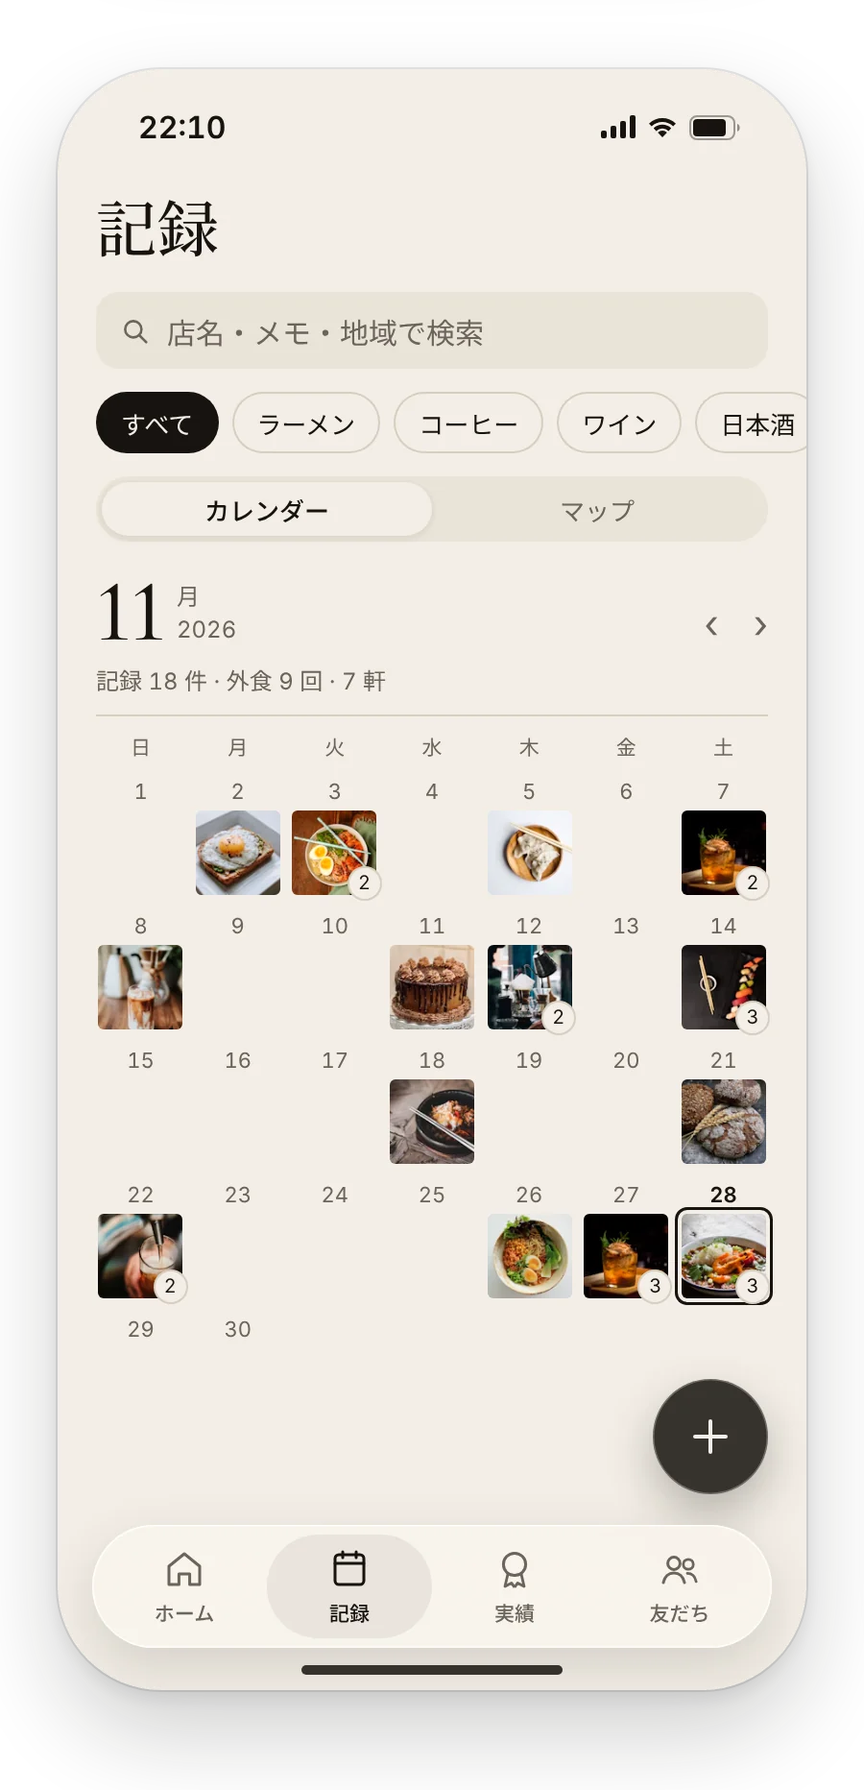
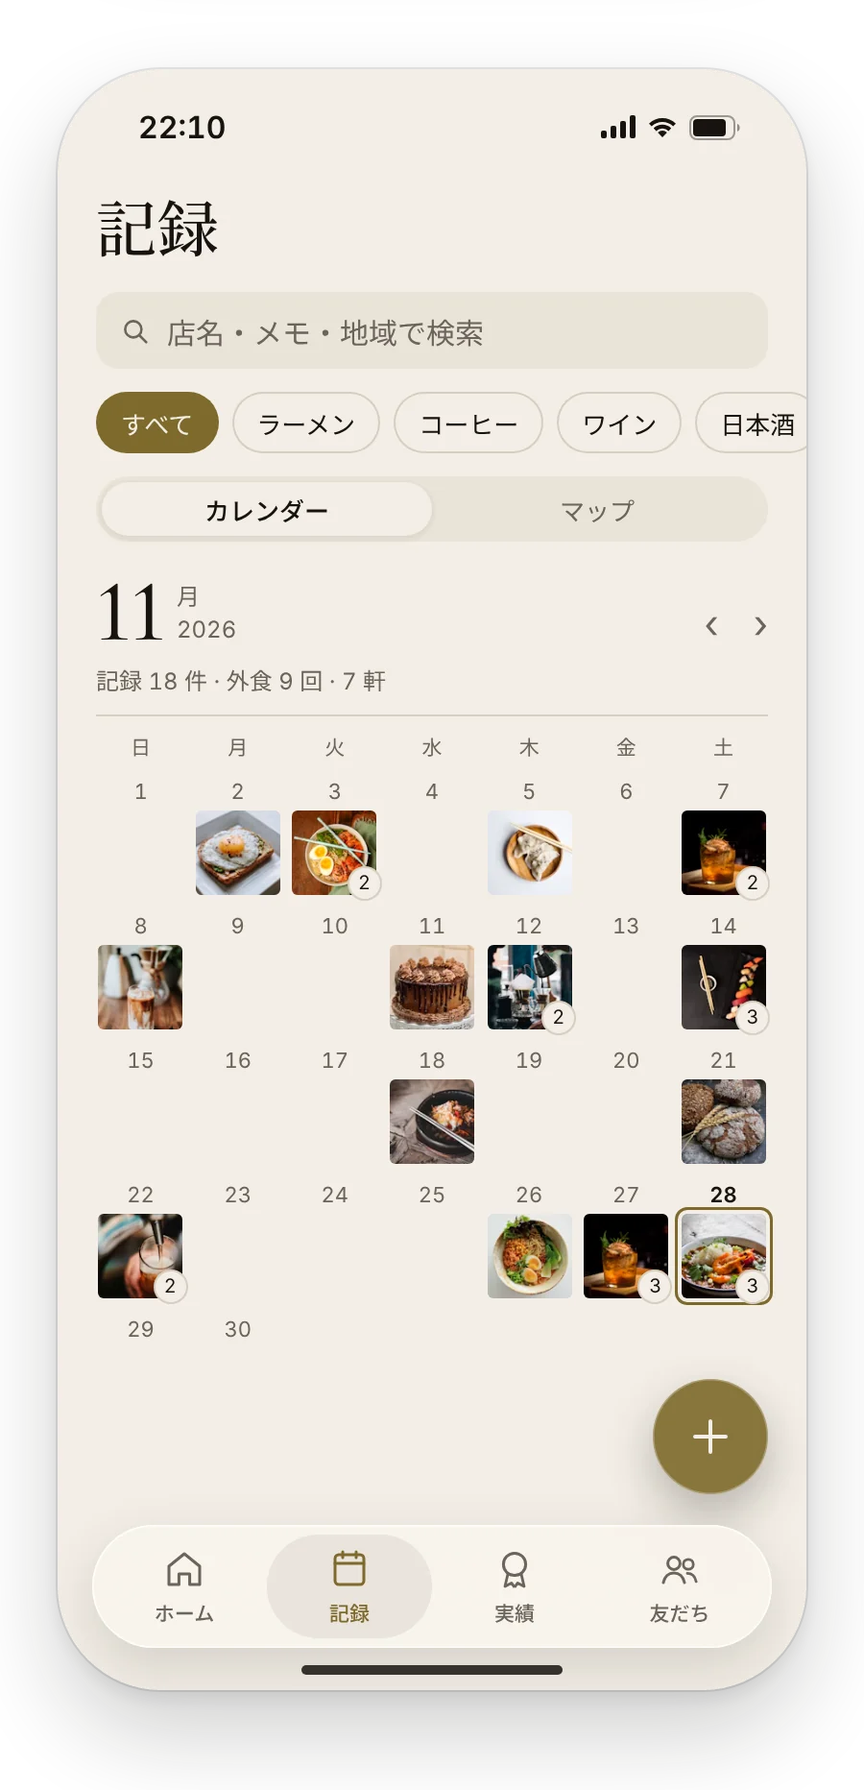
デザインの方向性を「日々の帳面」に決め、金は一休に学んで紙面ごとに濃さを変えて残す
作り手の判断を反映した。世界観は「日々の帳面」、明暗 2 つの紙面を OS の設定で切り替える、
書体は OS のヒラギノ、写真は仮置きのまま進める。金はやめる提案だったが、一休.com のように
白い背景でも金で高級感を出したいという判断を受け、明るい紙面では文字にも使える濃さ (#7E6A2C) に
して、操作と順位に使う。画面イメージとスライドを差し替え、判断待ちを消した。

Claude-Session: https://claude.ai/code/session_01YUQqLJP5HrrJYirxhUtHjp

diff --git a/docs/design/screens/index.html b/docs/design/screens/index.html
@@ -13,9 +13,11 @@
 body { background: #CFC8BC; font-family: -apple-system, "Hiragino Sans", "Noto Sans JP", sans-serif; padding: 24px; display: flex; flex-wrap: wrap; align-items: flex-start; gap: 8px; font-variant-numeric: lining-nums tabular-nums; }
 
 .light { --bg:#F3EEE6; --surface:#EAE4D9; --ink:#16130F; --sub:#6B645B; --rule:#D6CEC0; --shu:#A23F2E;
-  --glass:rgba(250,247,242,.62); --glass-line:rgba(255,255,255,.85); --glass-shadow:rgba(22,19,15,.14); --frame:rgba(22,19,15,.10); --pill:rgba(22,19,15,.07); --toast:rgba(247,243,236,.88); --fab:rgba(22,19,15,.86); }
+  --glass:rgba(250,247,242,.62); --glass-line:rgba(255,255,255,.85); --glass-shadow:rgba(22,19,15,.14); --frame:rgba(22,19,15,.10); --pill:rgba(22,19,15,.07); --toast:rgba(247,243,236,.88);
+  --gold:#7E6A2C; --on-gold:#F3EEE6; --fab:rgba(126,106,44,.92); }
 .dark { --bg:#16130F; --surface:#221E19; --ink:#F2EDE4; --sub:#A39B8F; --rule:#3A342C; --shu:#D6694F;
-  --glass:rgba(52,47,41,.62); --glass-line:rgba(255,255,255,.16); --glass-shadow:rgba(0,0,0,.45); --frame:rgba(255,255,255,.08); --pill:rgba(255,255,255,.10); --toast:rgba(40,36,31,.90); --fab:rgba(226,219,207,.78); }
+  --glass:rgba(52,47,41,.62); --glass-line:rgba(255,255,255,.16); --glass-shadow:rgba(0,0,0,.45); --frame:rgba(255,255,255,.08); --pill:rgba(255,255,255,.10); --toast:rgba(40,36,31,.90);
+  --gold:#B8995F; --on-gold:#16130F; --fab:rgba(184,153,95,.9); }
 
 .shot { padding: 36px 30px 52px; display: inline-block; }
 .phone { width: 390px; height: 844px; border-radius: 54px; overflow: hidden; position: relative;
@@ -33,7 +35,7 @@ body { background: #CFC8BC; font-family: -apple-system, "Hiragino Sans", "Noto S
 .status .icons { display: flex; gap: 6px; align-items: center; }
 .content { position: absolute; top: 54px; left: 0; right: 0; bottom: 0; padding: 0 20px; overflow: hidden; }
 
-/* glass (control layer): no tint of its own */
+/* glass (control layer): no tint of its own. Gold marks controls and ranks; vermilion marks stamps only */
 .glass { background: var(--glass); backdrop-filter: blur(24px) saturate(1.5); -webkit-backdrop-filter: blur(24px) saturate(1.5);
   box-shadow: inset 0 0 0 .75px var(--glass-line), 0 10px 28px var(--glass-shadow); }
 .circle { width: 44px; height: 44px; border-radius: 50%; display: flex; align-items: center; justify-content: center; }
@@ -41,8 +43,8 @@ body { background: #CFC8BC; font-family: -apple-system, "Hiragino Sans", "Noto S
 .tabbar { position: absolute; left: 18px; right: 18px; bottom: 22px; height: 64px; border-radius: 32px; display: flex; padding: 5px; z-index: 30; }
 .tab { flex: 1; display: flex; flex-direction: column; align-items: center; justify-content: center; gap: 3px; border-radius: 27px; color: var(--sub); font-size: 10.5px; font-weight: 500; }
 .tab svg { width: 24px; height: 24px; }
-.tab.on { background: var(--pill); color: var(--ink); }
-.fab { position: absolute; right: 20px; bottom: 102px; width: 60px; height: 60px; border-radius: 50%; background: var(--fab); color: var(--bg);
+.tab.on { background: var(--pill); color: var(--gold); }
+.fab { position: absolute; right: 20px; bottom: 102px; width: 60px; height: 60px; border-radius: 50%; background: var(--fab); color: var(--on-gold);
   backdrop-filter: blur(20px) saturate(1.4); -webkit-backdrop-filter: blur(20px) saturate(1.4);
   display: flex; align-items: center; justify-content: center; z-index: 30; box-shadow: inset 0 0 0 .75px rgba(255,255,255,.28), 0 10px 24px rgba(22,19,15,.28); }
 .fab svg { width: 24px; height: 24px; }
@@ -53,9 +55,9 @@ img { display: block; object-fit: cover; background: var(--surface); border-radi
 
 /* home */
 .top { display: flex; align-items: center; justify-content: space-between; height: 56px; }
-.logo { font-family: "Cormorant Garamond", serif; font-weight: 500; font-size: 25px; letter-spacing: .22em; }
+.logo { font-family: "Cormorant Garamond", serif; font-weight: 500; font-size: 25px; letter-spacing: .22em; color: var(--gold); }
 .top .actions { display: flex; gap: 10px; }
-.dot { position: absolute; top: 9px; right: 10px; width: 7px; height: 7px; border-radius: 50%; background: var(--ink); box-shadow: 0 0 0 2px var(--bg); }
+.dot { position: absolute; top: 9px; right: 10px; width: 7px; height: 7px; border-radius: 50%; background: var(--gold); box-shadow: 0 0 0 2px var(--bg); }
 
 .compare { background: var(--surface); border-radius: 6px; padding: 16px 14px 14px; margin-top: 8px; }
 .compare .q { display: flex; justify-content: space-between; align-items: baseline; padding: 0 2px 12px; }
@@ -68,7 +70,7 @@ img { display: block; object-fit: cover; background: var(--surface); border-radi
 
 .sec { display: flex; justify-content: space-between; align-items: baseline; margin-top: 24px; padding-bottom: 10px; border-bottom: 1px solid var(--ink); }
 .sec b { font-size: 15px; }
-.sec span { font-size: 13px; color: var(--sub); }
+.sec span { font-size: 13px; color: var(--gold); }
 
 /* ledger: date column + entries */
 .ledger { display: flex; border-bottom: 1px solid var(--rule); }
@@ -89,7 +91,7 @@ img { display: block; object-fit: cover; background: var(--surface); border-radi
 
 /* pushed screens */
 .nav { display: flex; justify-content: space-between; align-items: center; height: 56px; }
-.capsule { height: 44px; border-radius: 22px; padding: 0 18px; display: flex; align-items: center; font-size: 15px; font-weight: 500; }
+.capsule { height: 44px; border-radius: 22px; padding: 0 18px; display: flex; align-items: center; font-size: 15px; font-weight: 500; color: var(--gold); }
 
 /* detail */
 .dhead { display: flex; align-items: flex-end; gap: 12px; margin-top: 10px; }
@@ -117,7 +119,7 @@ img { display: block; object-fit: cover; background: var(--surface); border-radi
 .search svg { width: 17px; height: 17px; }
 .chips { display: flex; gap: 7px; margin-top: 12px; }
 .chip { height: 32px; padding: 0 13px; border-radius: 16px; display: flex; align-items: center; font-size: 13px; box-shadow: inset 0 0 0 1px var(--rule); white-space: nowrap; }
-.chip.on { background: var(--ink); color: var(--bg); box-shadow: none; }
+.chip.on { background: var(--gold); color: var(--on-gold); box-shadow: none; }
 .seg { margin-top: 12px; height: 34px; border-radius: 17px; background: var(--surface); display: flex; padding: 3px; font-size: 13px; }
 .seg div { flex: 1; display: flex; align-items: center; justify-content: center; border-radius: 14px; color: var(--sub); }
 .seg .on { background: var(--bg); color: var(--ink); box-shadow: 0 1px 4px rgba(22,19,15,.10); font-weight: 500; }
@@ -134,7 +136,7 @@ img { display: block; object-fit: cover; background: var(--surface); border-radi
 .cell img { width: 44px; height: 44px; margin-top: 2px; }
 .cell .c { position: absolute; right: 0; bottom: 0; min-width: 16px; height: 16px; border-radius: 8px; background: var(--bg); font-size: 10px; display: flex; align-items: center; justify-content: center; padding: 0 4px; box-shadow: 0 0 0 1px var(--rule); }
 .cell.today .n { color: var(--ink); font-weight: 600; }
-.cell.today img { box-shadow: 0 0 0 2px var(--bg), 0 0 0 3.5px var(--ink); }
+.cell.today img { box-shadow: 0 0 0 2px var(--bg), 0 0 0 3.5px var(--gold); }
 
 /* ranking + margin note */
 .rtitle { display: flex; align-items: baseline; justify-content: space-between; }
@@ -143,10 +145,10 @@ img { display: block; object-fit: cover; background: var(--surface); border-radi
 .note p { font-size: 16.5px; line-height: 1.75; margin-top: 4px; }
 .note .ev { display: flex; align-items: center; gap: 6px; margin-top: 10px; font-size: 11.5px; color: var(--sub); }
 .note .ev img { width: 30px; height: 30px; }
-.note .ev .no { margin-left: auto; font-size: 12.5px; text-decoration: underline; text-underline-offset: 3px; }
+.note .ev .no { margin-left: auto; font-size: 12.5px; color: var(--gold); text-decoration: underline; text-underline-offset: 3px; }
 .rank { display: flex; align-items: center; gap: 12px; padding: 11px 0; border-bottom: 1px solid var(--rule); }
-.rank .r { font-size: 34px; width: 44px; text-align: center; line-height: 1; flex: none; }
-.rank .r.range { font-size: 21px; }
+.rank .r { font-size: 34px; width: 44px; text-align: center; line-height: 1; flex: none; color: var(--gold); }
+.rank .r.range { font-size: 21px; color: var(--sub); }
 .rank img { width: 58px; height: 58px; }
 .rank .name { font-size: 16px; }
 .rank .meta { font-size: 12px; color: var(--sub); margin-top: 3px; }
@@ -167,7 +169,7 @@ img { display: block; object-fit: cover; background: var(--surface); border-radi
 .toast .r1 { display: flex; align-items: center; gap: 10px; }
 .toast .r1 .t { font-size: 14.5px; font-weight: 600; }
 .toast .r1 .t span { font-weight: 400; color: var(--sub); }
-.toast .btns { margin-left: auto; display: flex; gap: 14px; font-size: 13.5px; font-weight: 500; }
+.toast .btns { margin-left: auto; display: flex; gap: 14px; font-size: 13.5px; font-weight: 500; color: var(--gold); }
 .toast hr { border: 0; border-top: 1px solid var(--rule); margin: 10px 0; }
 .toast .r2 { display: flex; align-items: center; gap: 10px; }
 .toast .r2 .lab { font-size: 11px; color: var(--sub); }

diff --git a/docs/design/deck/project/slides/color.html b/docs/design/deck/project/slides/color.html
@@ -1,7 +1,7 @@
 <section id="color">
 <div class="head">
 <p class="eyebrow">COLOR</p>
-<h2>色は墨・生成り・朱の 3 つ。色は写真に任せる</h2>
+<h2>色は墨・生成り・金・朱の 4 つ。金は操作と順位、朱は印だけ</h2>
 </div>
 <div class="col" style="gap:14px">
 <p class="swlab">明るい紙面</p>
@@ -10,7 +10,7 @@
 <div class="sw"><div class="chip" style="background:#eae4d9"></div><p class="swname">面</p><p class="swval">#EAE4D9</p></div>
 <div class="sw"><div class="chip" style="background:#16130f"></div><p class="swname">文字 · 墨</p><p class="swval">#16130F · 16.0:1</p></div>
 <div class="sw"><div class="chip" style="background:#6b645b"></div><p class="swname">薄墨</p><p class="swval">#6B645B · 5.1:1</p></div>
-<div class="sw"><div class="chip" style="background:#d6cec0"></div><p class="swname">罫</p><p class="swval">#D6CEC0 · 飾り</p></div>
+<div class="sw"><div class="chip" style="background:#7e6a2c"></div><p class="swname">金 · 操作と順位</p><p class="swval">#7E6A2C · 4.6:1</p></div>
 <div class="sw"><div class="chip" style="background:#a23f2e"></div><p class="swname">朱 · 印だけ</p><p class="swval">#A23F2E · 5.5:1</p></div>
 </div>
 </div>
@@ -21,11 +21,11 @@
 <div class="sw"><div class="chip" style="background:#221e19"></div><p class="swname">面</p><p class="swval">#221E19</p></div>
 <div class="sw"><div class="chip" style="background:#f2ede4"></div><p class="swname">文字 · 生成り</p><p class="swval">#F2EDE4 · 15.9:1</p></div>
 <div class="sw"><div class="chip" style="background:#a39b8f"></div><p class="swname">薄墨</p><p class="swval">#A39B8F · 6.7:1</p></div>
-<div class="sw"><div class="chip" style="background:#3a342c"></div><p class="swname">罫</p><p class="swval">#3A342C · 飾り</p></div>
+<div class="sw"><div class="chip" style="background:#b8995f"></div><p class="swname">金 · 操作と順位</p><p class="swval">#B8995F · 6.8:1</p></div>
 <div class="sw"><div class="chip" style="background:#d6694f"></div><p class="swname">朱 · 印だけ</p><p class="swval">#D6694F · 5.3:1</p></div>
 </div>
 </div>
-<p class="src">比は紙に対するコントラスト。金 (#B8995F) は明るい紙面の上で 2.34:1 で、文字にもボタンにも使えないためやめる</p>
+<p class="src">金は一休.comレストランの「時を経た金箔のような金」に学び、明るい紙面では文字にも使える濃さにした</p>
 <div class="foot"><p>HINAMI デザインコンセプト</p><p class="pg"></p></div>
-<aside>前の案の 4 色から金を外した。朱は暗い紙面では少し明るくし、小さな文字にも足りるコントラストにした。高コントラストの設定用に、さらに濃い 2 通りを持つ (使いやすさのスライド)。</aside>
+<aside>金を使うのは、ロゴ、選んだ絞り込みとタブ、＋、リンク、順位の数字。本文には使わない。一休のデザインガイドラインでは、レストランの主の色が #AF9B65、1 位とゴールド会員の色が #A88304。HINAMI の生成りの上では #AF9B65 が 2.36:1 になるため、同じ考えのまま濃くした。高コントラストの設定用に、さらに濃い 2 通りを持つ。</aside>
 </section>

diff --git a/docs/design/deck/project/slides/decide.html b/docs/design/deck/project/slides/decide.html
@@ -1,17 +1,17 @@
 <section id="decide" class="paper2">
 <div class="head">
-<p class="eyebrow">NEXT</p>
-<h2>決めてほしいこと</h2>
+<p class="eyebrow">DECIDED</p>
+<h2>決めたこと</h2>
 </div>
 <table>
-<tr><th style="width:14%">論点</th><th style="width:60%">案</th><th style="width:26%">推し</th></tr>
-<tr><td>世界観</td><td>「夜の帳面」を、時間帯を選ばない帳面に組み直す (名前は別に決める)</td><td>組み直す</td></tr>
-<tr><td>明暗</td><td>明るい紙面と暗い紙面の両方を作り、OS の設定に従う。または墨の 1 本に絞る</td><td>両方を作る</td></tr>
-<tr><td>色</td><td>金をやめ、墨・生成り・朱の 3 つにする</td><td>金をやめる</td></tr>
-<tr><td>書体</td><td>明朝と本文を OS のヒラギノにし、しっぽり明朝と Noto Sans JP をやめる</td><td>OS の書体</td></tr>
-<tr><td>写真</td><td>作り手がスマホで撮った写真 (暗い店や台所を含む) で画面を作り直し、仮置きの写真との差を確かめる</td><td>作り直す</td></tr>
+<tr><th style="width:12%">論点</th><th style="width:50%">決めたこと</th><th style="width:38%">補足</th></tr>
+<tr><td>世界観</td><td>「夜の帳面」を「日々の帳面」に組み直す</td><td>帳面の比喩と、写真が主役は残す</td></tr>
+<tr><td>明暗</td><td>明るい紙面と暗い紙面の両方を作り、OS の設定に従う</td><td>カメラだけはいつも暗い</td></tr>
+<tr><td>色</td><td>墨・生成り・金・朱の 4 つ。金は操作と順位、朱は印</td><td>金は一休に学び、紙面ごとに濃さを変える</td></tr>
+<tr><td>書体</td><td>見出しと本文は OS のヒラギノ。日付とロゴは Cormorant Garamond</td><td>しっぽり明朝と Noto Sans JP はやめる</td></tr>
+<tr><td>写真</td><td>仮置きのまま進める</td><td>ふだんの写真での見え方は、PHASE 1 の実機で確かめる</td></tr>
 </table>
-<p class="src">決まったら docs/design/direction.md に反映する。そのあと、残りの画面 (マップ、年間ふりかえり、友だち) を同じ方向で起こす</p>
+<p class="src">次は、色と書体をデザイントークンとして packages に置き、残りの画面 (マップ、年間ふりかえり、友だち) を同じ方向で起こす</p>
 <div class="foot"><p>HINAMI デザインコンセプト</p><p class="pg"></p></div>
-<aside>5 つとも、推しの案で進めると、PHASE 1 の実装 (Expo) に入る前に色と書体のトークンを packages に置ける。</aside>
+<aside>2026-11-28 に作り手が決めた。docs/design/direction.md に反映済み。</aside>
 </section>

diff --git a/docs/design/deck/project/slides/cover.html b/docs/design/deck/project/slides/cover.html
@@ -1,11 +1,11 @@
 <section id="cover" data-transition="fade">
-<img class="cover-ph1 rise" style="--i:1" src="/_blob/33541b52f21b4f8c2e1f918403bc3190" alt="ホームの画面イメージ (明るい紙面)">
-<img class="cover-ph2 rise" style="--i:2" src="/_blob/d388bc92142c1698ec43bd4422b7739b" alt="ホームの画面イメージ (暗い紙面)">
+<img class="cover-ph1 rise" style="--i:1" src="/_blob/194a022dd53b9e8f68ca45a2e27500a8" alt="ホームの画面イメージ (明るい紙面)">
+<img class="cover-ph2 rise" style="--i:2" src="/_blob/a434e7e9e77bae32329a085be8c9b764" alt="ホームの画面イメージ (暗い紙面)">
 <div class="cover-col">
 <p class="eyebrow">DESIGN CONCEPT</p>
 <h1 class="logo cover-logo">HINAMI</h1>
 <h2 class="cover-tag">朝の一杯も、夜の一皿も、<br>同じ帳面に。</h2>
-<p class="body">デザインの方向性 (改訂の提案)<br>2026 年 11 月 28 日</p>
+<p class="body">デザインコンセプト「日々の帳面」<br>2026 年 11 月 28 日</p>
 </div>
 <img class="cover-stamp press" src="/_blob/2ebd97f344e6683e697a67bf16ebd7d3" alt="">
 <aside>前の案「夜の帳面」を、コンセプトの変更 (口にするものなら何でも、種類に偏らせない) に合わせて組み直す提案。右の 2 台は同じホームを、明るい紙面と暗い紙面で見せたもの。写真は Unsplash の仮置き。</aside>

diff --git a/docs/design/deck/project/slides/keep.html b/docs/design/deck/project/slides/keep.html
@@ -1,7 +1,7 @@
 <section id="keep">
 <div class="head">
 <p class="eyebrow">KEEP &amp; CHANGE</p>
-<h2>帳面の比喩と写真は残し、色・書体・印・一覧の組み方を変える</h2>
+<h2>帳面の比喩と写真は残し、明暗・書体・印・一覧の組み方を変える</h2>
 </div>
 <div class="row">
 <div class="col grow">
@@ -15,7 +15,7 @@
 <div class="col grow">
 <h3>変える</h3>
 <div class="item"><p class="it">夜だけ → 明るい紙面と暗い紙面の 2 つ</p></div>
-<div class="item"><p class="it">金 → やめる。色は墨・生成り・朱の 3 つ</p></div>
+<div class="item"><p class="it">金 → 紙面ごとに濃さを変え、操作と順位に絞る</p></div>
 <div class="item"><p class="it">しっぽり明朝・Noto Sans JP → OS のヒラギノ</p></div>
 <div class="item"><p class="it">地酒図鑑 → 種類は丸、店は角、土地は小判の印</p></div>
 <div class="item"><p class="it">一覧 → 帳簿の組み方 (左に日付の欄)</p></div>

diff --git a/docs/design/deck/project/slides/why.html b/docs/design/deck/project/slides/why.html
@@ -6,7 +6,7 @@
 <table>
 <tr><th style="width:28%">前の案の要素</th><th style="width:40%">どう見えるか</th><th style="width:32%">どうする</th></tr>
 <tr><td>世界観の名前「夜の帳面」</td><td>使う時間帯を夜に決めている</td><td>時間帯を選ばない帳面にする</td></tr>
-<tr><td>墨の背景 × 金</td><td>夜と酒の場に寄って見える。金は明るい紙面の上で 2.34:1 で、文字にもボタンにも使えない</td><td>明暗 2 つの紙面にし、金をやめる</td></tr>
+<tr><td>墨の背景だけ</td><td>夜と酒の場に寄って見える。明るい場所では見づらい</td><td>明暗 2 つの紙面にする</td></tr>
 <tr><td>地酒図鑑 (都道府県の朱印)</td><td>日本酒の人だけの楽しみに見える</td><td>どの種類も同じ形の印にする</td></tr>
 <tr><td>見本が鮨と日本酒</td><td>作り手の好みが前提に見える</td><td>見本の写真を種類でならす</td></tr>
 </table>

diff --git a/docs/design/deck/project/slides/summary.html b/docs/design/deck/project/slides/summary.html
@@ -1,13 +1,13 @@
 <section id="summary" class="night">
 <div class="head">
 <p class="eyebrow">CONCLUSION</p>
-<h2>「夜の帳面」を、朝も夜も使える帳面に組み直す。<br>帳面の比喩と、写真が主役は残す</h2>
+<h2>「夜の帳面」を、朝も夜も使える「日々の帳面」に組み直す。<br>帳面の比喩と、写真が主役は残す</h2>
 </div>
 <div class="pillars">
 <div class="pillar rule-top rise" style="--i:1">
 <p class="no">01</p>
 <h3>写真が主役、紙面は静か</h3>
-<p class="body">色は写真に任せ、紙面は墨・生成り・朱の 3 色だけ。枠や影で囲まず、余白と細い罫で区切る。</p>
+<p class="body">紙面は墨・生成り・金・朱の 4 色だけ。金は操作と順位、朱は印に使い、ほかの色は写真に任せる。枠や影で囲まず、余白と細い罫で区切る。</p>
 </div>
 <div class="pillar rule-top rise" style="--i:2">
 <p class="no">02</p>

diff --git a/docs/design/deck/project/slides/photo.html b/docs/design/deck/project/slides/photo.html
@@ -1,6 +1,6 @@
 <section id="photo">
-<img class="ph-r2a rise" style="--i:1" src="/_blob/cbc2126e338a8d236bf0e3d10ce1c5ab" alt="食事の詳細 (明るい紙面)">
-<img class="ph-r2b rise" style="--i:2" src="/_blob/a4cc907e27ea23f28d68b1d5ae63ca66" alt="記録のタブのカレンダー (明るい紙面)">
+<img class="ph-r2a rise" style="--i:1" src="/_blob/3b39d65bb72d9e71a5a314cd39feee84" alt="食事の詳細 (明るい紙面)">
+<img class="ph-r2b rise" style="--i:2" src="/_blob/08052b97d66bd00974a98a1589503f8c" alt="記録のタブのカレンダー (明るい紙面)">
 <div class="textcol" style="width:800px">
 <div class="head">
 <p class="eyebrow">PHOTO</p>

diff --git a/docs/design/deck/project/slides/lightdark.html b/docs/design/deck/project/slides/lightdark.html
@@ -1,6 +1,6 @@
 <section id="lightdark" class="paper2">
-<img class="ph-r2a rise" style="--i:1" src="/_blob/33541b52f21b4f8c2e1f918403bc3190" alt="ホーム (明るい紙面)">
-<img class="ph-r2b rise" style="--i:2" src="/_blob/d388bc92142c1698ec43bd4422b7739b" alt="ホーム (暗い紙面)">
+<img class="ph-r2a rise" style="--i:1" src="/_blob/194a022dd53b9e8f68ca45a2e27500a8" alt="ホーム (明るい紙面)">
+<img class="ph-r2b rise" style="--i:2" src="/_blob/a434e7e9e77bae32329a085be8c9b764" alt="ホーム (暗い紙面)">
 <div class="textcol" style="width:800px">
 <div class="head">
 <p class="eyebrow">LIGHT &amp; DARK</p>

diff --git a/docs/design/deck/project/slides/layers.html b/docs/design/deck/project/slides/layers.html
@@ -7,7 +7,7 @@
 </div>
 <div class="layer layer-glass">
 <p class="layer-t">操作の層 · Liquid Glass</p>
-<p class="layer-d">タブバー、＋、トースト、シート、ナビの丸いボタン。丸く、ガラスに色を足さない。色を付けるのは主な操作の ＋ だけ (墨)</p>
+<p class="layer-d">タブバー、＋、トースト、シート、ナビの丸いボタン。丸く、ガラスに色を足さない。色を付けるのは主な操作の ＋ だけ (金)</p>
 </div>
 <div class="layer layer-paper">
 <p class="layer-t">紙面の層 · HINAMI</p>

diff --git a/docs/design/deck/project/slides/note.html b/docs/design/deck/project/slides/note.html
@@ -1,5 +1,5 @@
 <section id="note">
-<img class="ph-r1 rise" style="--i:1" src="/_blob/48a984492653f26c303b44092fa951bf" alt="ラーメンのランキングと、余白の書き込み (暗い紙面)">
+<img class="ph-r1 rise" style="--i:1" src="/_blob/ac36bb5185681af6b035dc75efb07482" alt="ラーメンのランキングと、余白の書き込み (暗い紙面)">
 <div class="widecol" style="width:1180px">
 <div class="head">
 <p class="eyebrow">MARGIN NOTE</p>

diff --git a/docs/design/deck/project/slides/ledger.html b/docs/design/deck/project/slides/ledger.html
@@ -1,5 +1,5 @@
 <section id="ledger">
-<img class="ph-r1 rise" style="--i:1" src="/_blob/33541b52f21b4f8c2e1f918403bc3190" alt="ホーム。左に日付の欄、右に記録が並ぶ">
+<img class="ph-r1 rise" style="--i:1" src="/_blob/194a022dd53b9e8f68ca45a2e27500a8" alt="ホーム。左に日付の欄、右に記録が並ぶ">
 <div class="widecol" style="width:1180px">
 <div class="head">
 <p class="eyebrow">METAPHOR</p>
